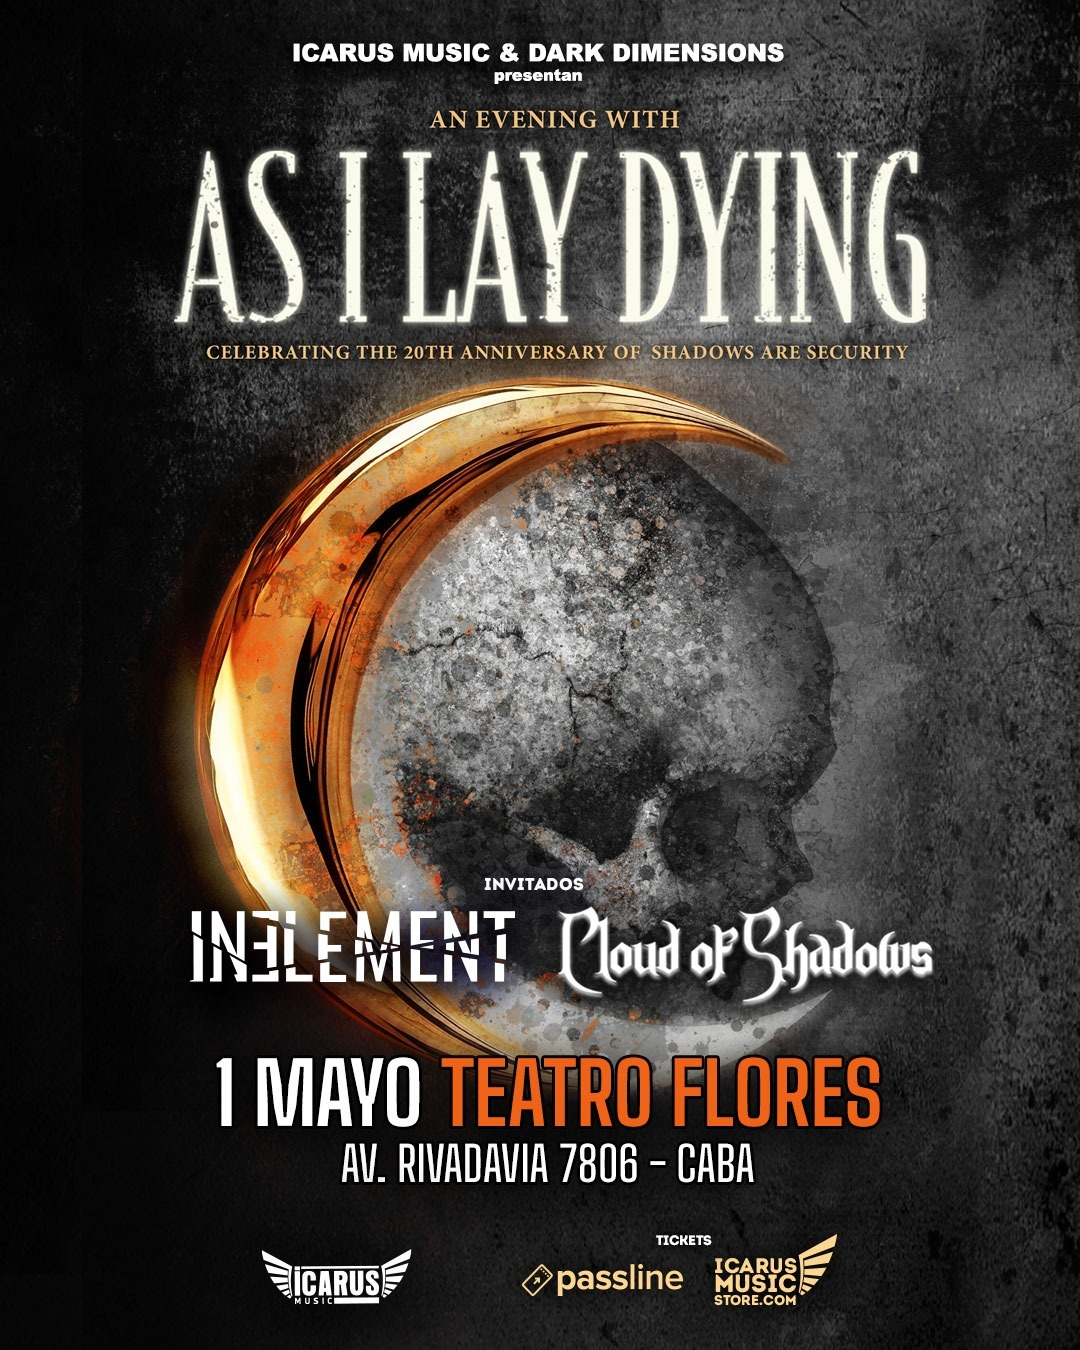
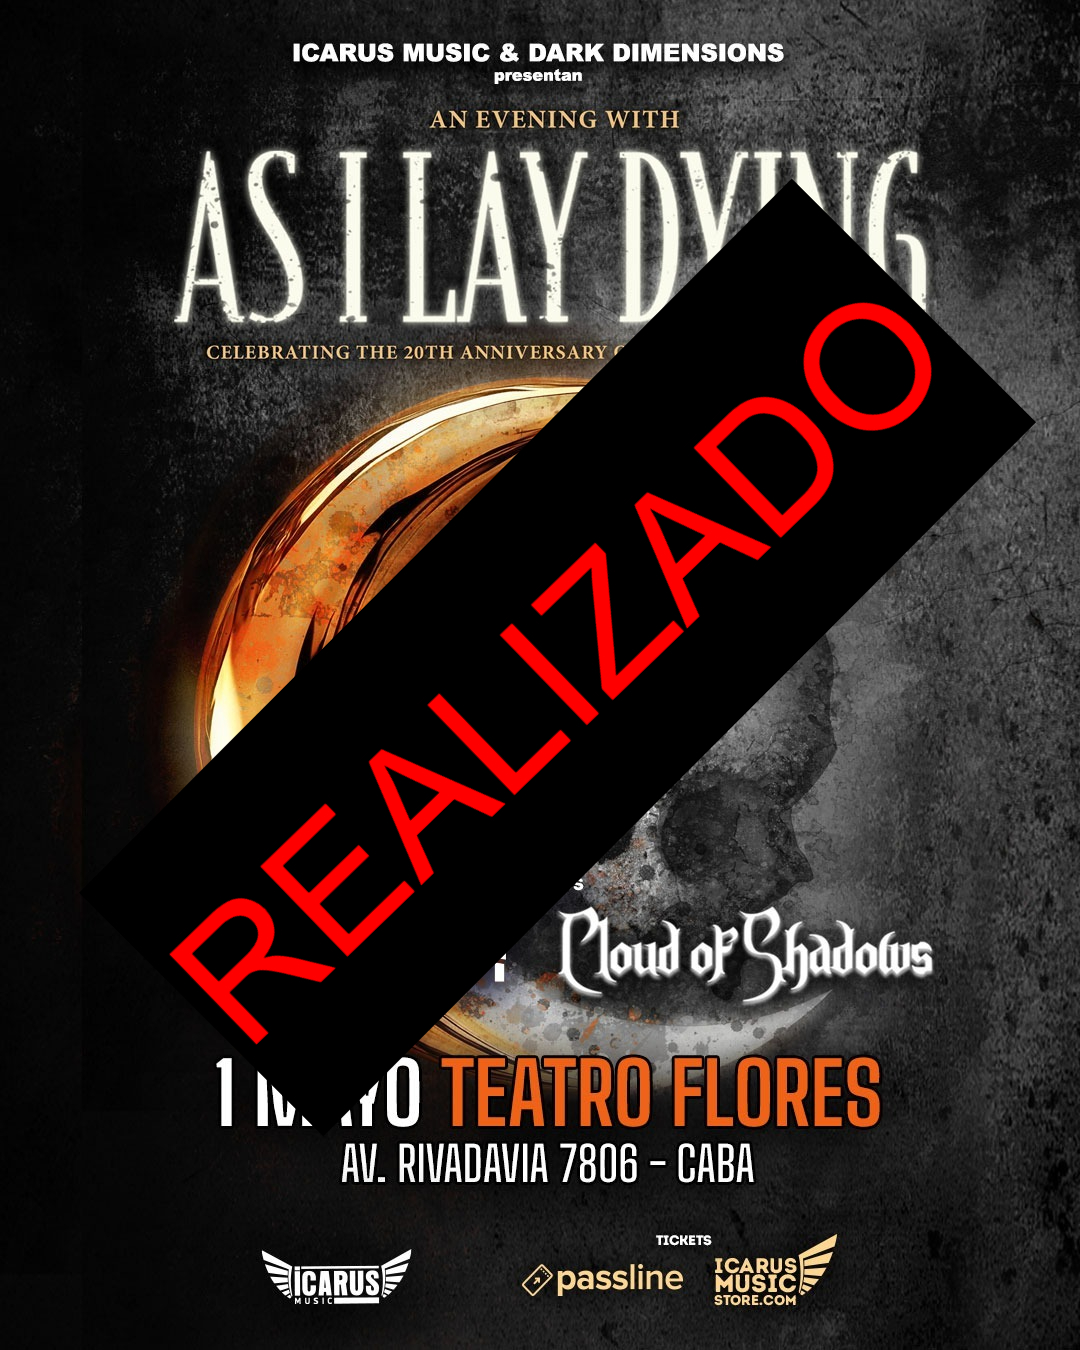
se agregan imagenes y se actualiza estado de evento

Changed region(s): [[0.1528, 0.1244, 0.9472, 0.84]]

diff --git a/index.html b/index.html
@@ -52,17 +52,29 @@
                 <div class="swiper-wrapper">
 
                     <div class="swiper-slide flex flex-col items-center">
-                        <img src="images/en-vivo/Cloud of Shadows Club Re-8.jpg"
+                        <img src="images/en-vivo/cloud_teatroflores.webp"
                             class="w-3/4 object-cover rounded-xl opacity-75" />
                     </div>
 
                     <div class="swiper-slide flex flex-col items-center">
-                        <img src="images/en-vivo/Cloud of Shadows Club Re-21.jpg"
+                        <img src="images/en-vivo/guille_teatroflores.webp"
                             class="w-3/4 object-cover rounded-xl opacity-75" />
                     </div>
 
                     <div class="swiper-slide flex flex-col items-center">
-                        <img src="images/en-vivo/cloud1.jpg" class="w-3/4 object-cover rounded-xl opacity-75" />
+                        <img src="images/en-vivo/dani_teatroflores.webp" class="w-3/4 object-cover rounded-xl opacity-75" />
+                    </div>
+
+                    <div class="swiper-slide flex flex-col items-center">
+                        <img src="images/en-vivo/gus_teatroflores.webp" class="w-3/4 object-cover rounded-xl opacity-75" />
+                    </div>
+
+                    <div class="swiper-slide flex flex-col items-center">
+                        <img src="images/en-vivo/Cloud of Shadows Club Re-21.jpg" class="w-3/4 object-cover rounded-xl opacity-75" />
+                    </div>
+
+                    <div class="swiper-slide flex flex-col items-center">
+                        <img src="images/en-vivo/Cloud of Shadows Club Re-8.jpg" class="w-3/4 object-cover rounded-xl opacity-75" />
                     </div>
 
                 </div>
